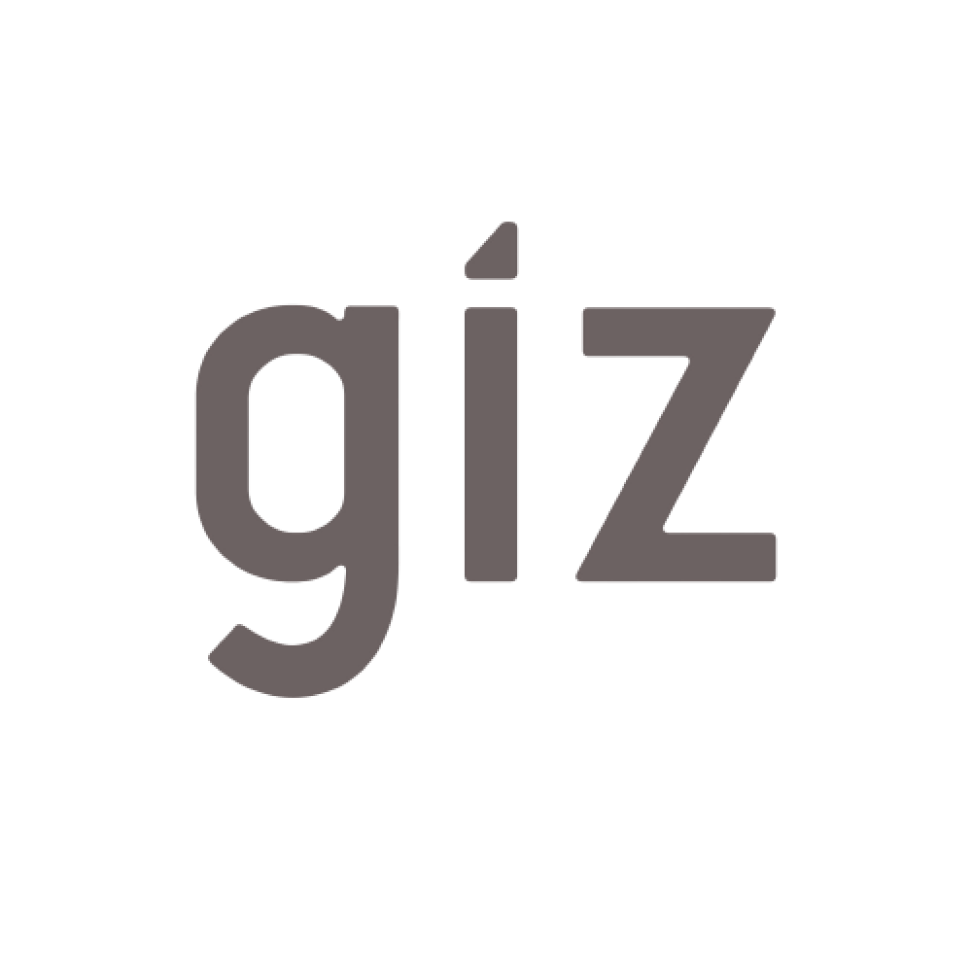
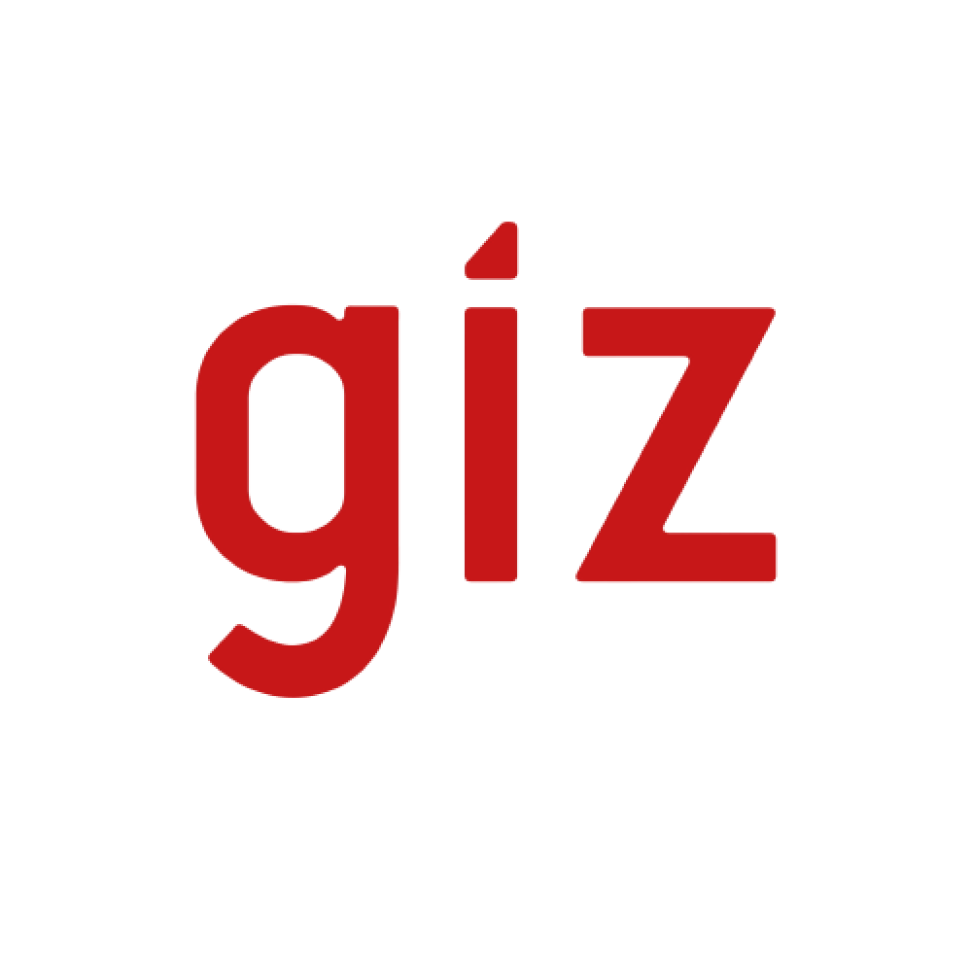
changed partners to colorful versions and modification on rows

Changed region(s): [[0.1852, 0.3086, 0.4321, 0.7407], [0.5864, 0.3086, 0.8025, 0.6173], [0.463, 0.216, 0.5556, 0.6173]]

diff --git a/components/herosection.tsx b/components/herosection.tsx
@@ -1,40 +1,42 @@
 import Image from "next/image";
 import React from "react";
-import { TypeAnimation } from "react-type-animation";
 import giz from "@/public/assets/giz.png";
-import wfp from "@/public/assets/wfp.png";
+import wfp from "@/public/assets/wfp.svg";
 import corp from "@/public/assets/corps.png";
-import mrastah from "@/public/assets/mrastah.png";
+import mrastah from "@/public/assets/mrastajh.jpg";
+import growth from "@/public/assets/Growth.png";
 
 function HeroSection() {
   return (
-    <div className="max-w-[80rem]   lg:mx-auto  items-center mx-6 h-[75vh] flex flex-col justify-between ">
-      <section className="text-center grow flex flex-col justify-center ">
-        <h1 className="font-bold text-[2rem]  lg:text-[3rem] max-w-[25ch] mx-auto ">
-          Empowering Afghanistan’s Future Leaders and Innovators
-        </h1>
+    <div className="flex flex-col items-center">
+      <div className="max-w-[80rem]   lg:mx-auto  items-center mx-6 h-[75vh] flex justify-between ">
+        <section className=" grow flex flex-col items-center  justify-center ">
+          <h1 className="font-bold text-[2rem]  lg:text-[3rem] max-w-[25ch] mx-auto ">
+            Empowering Afghanistan’s Future Leaders and Innovators
+          </h1>
 
-        <p className="text-[1.5rem] max-w-[45ch]  mx-auto italic mb-14 text-gray-300 mt-2">
-          we colloborate with prestigious organizations to empower and nurture
-          youth of Afghanistan for a better future through digital education and
-          entrepreneurship.
-        </p>
-        <div className="flex justify-center ">
-          <button className="w-64 h-20 relative mt-4 cursor-pointer hover:scale-110">
-            <span className="highlight "></span>
-            <span className="text text-[1.5rem]">Get Involved</span>
-          </button>
-        </div>
-      </section>
+          <p className="text-[1.5rem] max-w-[45ch]  mx-auto italic mb-14 text-gray-300 mt-2">
+            we colloborate with prestigious organizations to empower and nurture
+            youth of Afghanistan for a better future through digital education
+            and entrepreneurship.
+          </p>
+          {/* <div className="flex justify-center ">
+        
+          </div> */}
+        </section>
+
+        <Image src={growth} alt="Transformation" />
+      </div>
+
       <div className="flex mt-10  items-center flex-col md:flex-row ">
         <h3 className="hidden md:block text-[1.5rem] text-gray-400">
-          Our Great Partners:
+          Our Prestigious Donors:
         </h3>
         <div className="flex overflow-hidden flex-row items-center gap-8 ">
-          <Image src={giz} className=" w-20 object-cover" alt="" />
+          <Image src={giz} className=" w-32 object-cover" alt="" />
           <Image src={wfp} className="w-40 object-cover" alt="" />
-          <Image src={corp} className=" w-20 object-cover" alt="" />
-          <Image src={mrastah} className=" w-20 object-cover" alt="" />
+          <Image src={corp} className=" w-40 object-cover" alt="" />
+          <Image src={mrastah} className=" w-32 object-cover" alt="" />
         </div>
       </div>
     </div>

diff --git a/components/navbar.tsx b/components/navbar.tsx
@@ -21,7 +21,7 @@ function Navbar() {
       className=" flex items-center justify-between mx-6 max-w-[80rem] xl:mx-auto  pt-4 lg:pt-8"
     >
       <div className="flex items-center gap-4">
-        <Image src={logo} alt="" className="h-20 w-20 object-cover" />
+        <Image src={logo} alt="YDTDO" className="w-20 object-cover" />
         <div className="flex flex-col items-end">
           <p className="w-[25ch]">
             Youth Digital Training and Developement Organization
@@ -38,11 +38,13 @@ function Navbar() {
         <Link href={"#"} className="lg:text-[24px]">
           Who we are
         </Link>
-
         <Link href={"#"} className="lg:text-[24px]">
-          Vacancies
+          What we do
         </Link>
-        <Link
+        {/* <Link href={"#"} className="lg:text-[24px]">
+          Vacancies
+        </Link> */}
+        {/* <Link
           onClick={(e) => {
             e.preventDefault(), smoothScroll("about");
           }}
@@ -50,7 +52,7 @@ function Navbar() {
           className="lg:text-[24px]"
         >
           About Us
-        </Link>
+        </Link> */}
         <Link
           href={"#contact"}
           className="lg:text-[24px]"
@@ -60,6 +62,11 @@ function Navbar() {
         >
           Contact Us
         </Link>
+
+        <button className="w-[12rem] h-16 relative  cursor-pointer hover:scale-110">
+          <span className="highlight "></span>
+          <span className="text   text-[1.5rem]">Apply Now</span>
+        </button>
       </div>
 
       <MobileNavMenu />

diff --git a/app/layout.tsx b/app/layout.tsx
@@ -7,6 +7,7 @@ import { cn } from "@/lib/utils";
 
 export const metadata: Metadata = {
   title: "YDTDO - Youth Digital Training and Development Organization",
+  description: "Nurturing Youth For Future",
 };
 
 export default function RootLayout({
@@ -19,8 +20,7 @@ export default function RootLayout({
       <body
         className={cn("min-h-scree bg-background font-sans ", inter.variable)}
       >
-        {/* <link rel="icon" href="/favicon.ico" sizes="any" /> */}
-        <div className="absolute h-screen w-full -z-10 bg-[radial-gradient(circle_at_top_right,rgba(108,99,255,0.7)0%,rgba(108,99,255,0.1)50%,rgba(108,99,255,0)100%)]"></div>
+        {/* <div className="absolute h-screen w-full -z-10 bg-[radial-gradient(circle_at_top_right,rgba(108,99,255,0.7)0%,rgba(108,99,255,0.1)50%,rgba(108,99,255,0)100%)]"></div> */}
         {children}
         <Toaster />
       </body>
